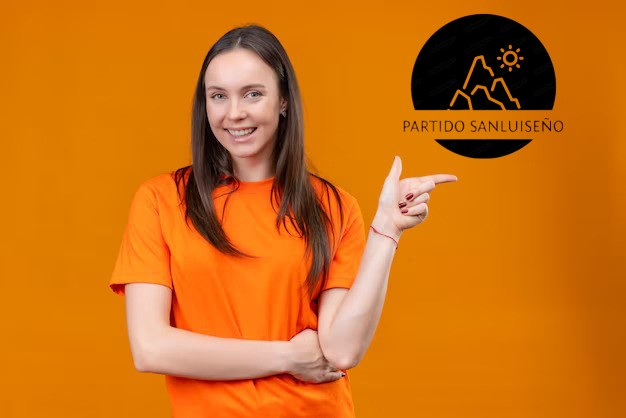
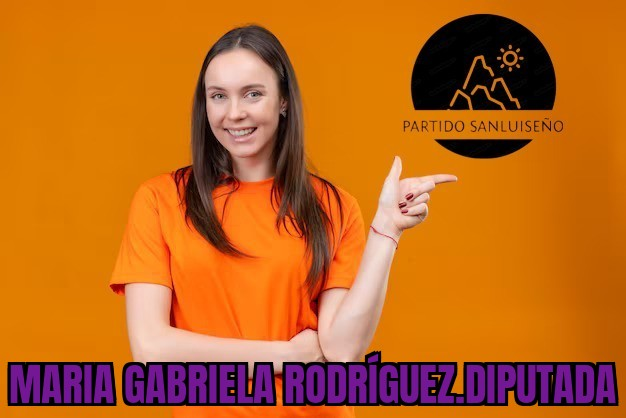
ultimos detalles

Changed region(s): [[0.0, 0.8397, 1.0, 0.9952], [0.7284, 0.1244, 0.8498, 0.2488]]

diff --git a/formulariocontacto.html b/formulariocontacto.html
@@ -8,8 +8,16 @@
     <style>
         .container2  {
         font-size: 14px;
-        margin-left: 350px; 
+        margin-top: 10px;
+        
     }
+    .flex-container {
+  display: flex;
+  background-color: black;
+  margin: 10px;
+  padding: 10px;
+  
+}
     </style>
     
     <script>
@@ -20,37 +28,37 @@
             var dni = document.getElementById('dni').value.trim();
             var phone = document.getElementById('phone').value.trim();
 
-            // Validaciones básicas
+            // Validaciones básicas.ok
             if (!name ||!lastName ||!dni ||!phone) {
                 showError("Todos los campos son obligatorios.");
                 return false;
             }
 
-            // Longitud máxima para DNI y Teléfono
+            // Longitud máxima para DNI y Teléfono.Revisar
             if (dni.length > 8 || phone.length > 15) {
                 showError("DNI y Teléfono exceden la longitud máxima permitida.");
                 return false;
             }
 
-            // Expresión regular para el DNI (ajusta según el formato esperado)
+            // Expresión regular para el DNI.ok
             var dniPattern = /^[0-9]{8}$/;
             if (!dni.match(dniPattern)) {
                 showError("DNI inválido.");
                 return false;
             }
 
-            // Expresión regular para el Teléfono (ajusta según el formato esperado)
-            var phonePattern = /^\d{10}$/; // Ejemplo para números de teléfono de 10 dígitos
+            // Expresión regular para el Teléfono.ok
+            var phonePattern = /^\d{10}$/; // Solo acepta numeros de hasta 10 digitos
             if (!phone.match(phonePattern)) {
                 showError("Número de teléfono inválido.");
                 return false;
             }
 
-            // Mostrar mensaje de éxito y datos ingresados
+            // Mostrar mensaje de éxito y datos ingresados.ok
             var successMessage = document.getElementById('success-message');
             successMessage.style.display = 'block';
 
-            // Crear un div para mostrar los datos ingresados
+            // Crear un div para mostrar los datos ingresados.ok
 
             var userDataDiv = document.createElement('div');
             userDataDiv.innerHTML = `
@@ -64,11 +72,11 @@
 
             setTimeout(() => {
                 successMessage.style.display = 'none';
-                userDataDiv.remove(); // Eliminar el div de datos ingresados después de 5 segundos
+                userDataDiv.remove(); // Elimina el div de datos ingresados despues de x tiempo.ok
             }, 5000);
             
             
-            // Resetear el formulario
+            // Resetear el formulario.ok
             document.getElementById('contactForm').reset();
             return true;
         }
@@ -99,6 +107,7 @@
     </div>
         
         </header>
+        <div class="flex-container">
         <div class="container2">
     <form id="contactForm" onsubmit="event.preventDefault(); validateAndSubmit(event);">
         <label for="name">Nombre:</label><br>
@@ -114,6 +123,12 @@
     </form>
     <div id="success-message" style="display: none;">Gracias por querer sumarte al cambio!.Pronto nos comunicaremos con vos</div>
 </div>
+
+<div class="contenedor">
+    <img src="afiliados.jpg"  width="350px" height="350px" alt="Afiliados" style="float: center; margin-top: 15px;">
+</div>
+        </div>
+
     <footer>
         <ul>
             <li>Telefono: 2664223344</li>

diff --git a/candidatos.html b/candidatos.html
@@ -5,6 +5,17 @@
     <meta name="viewport" content="width=device-width, initial-scale=1.0">
     <title>Nuestros candidatos</title>
     <link rel="stylesheet" href = "partido.css">
+    <style>
+          .flex-container {
+  display: flex;
+  background-color: black;
+  margin: 10px;
+  padding: 10px;
+  
+}
+
+
+    </style>
       
     <header>
     
@@ -20,18 +31,15 @@
             
         </ul>
     </div>
-        
-        </header>
+     </header>
 
-       
-</head>
+    </head>
 <body>
-    
+    <div class="flex-container"> 
     <div class="listaCandidatos">
         <ul>
-            <h2>Candidato 1</h2>
-            <li>Nombre: Juan Carlos</li>
-            <li>Apellido: Pérez</li>
+            <h2>Juan Carlos Perez</h2>
+            
             <li>Estudios: Licenciatura en Ciencias Políticas por la Universidad Nacional Mayor de San Marcos (UNMSM).</li>
             <li>Experiencia Laboral: Ex miembro del Congreso Nacional como Diputado durante dos legislaturas. Anteriormente,<br>
                  trabajó como asesor político para el Ministerio de Relaciones Exteriores.</li>
@@ -40,9 +48,8 @@
         </div>  
         <div class="listaCandidatos">    
         <ul>
-            <h2>Candidato 2</h2>
-            <li>Nombre: María Gabriela</li>
-            <li>Apellido: Rodriguez</li>
+            <h2>Maria Gabriela Rodriguez</h2>
+            
             <li>Estudios: Maestría en Administración Pública por la Pontificia Universidad Católica del Perú (PUCP). Licenciada en Derecho por la Universidad de Lima.</li>
             <li>Experiencia Laboral: Dirección de Asuntos Legislativos en el Ministerio de Economía y Finanzas. Antes de eso, ejerció como abogada especializada en derecho administrativo.</li>
             
@@ -51,9 +58,8 @@
         </div>
         <div class="listaCandidatos">
             <ul>
-                <h2>Candidato 3</h2>
-                <li>Nombre: Pedro Alejandro</li>
-                <li>Apellido: Gonzalez</li>
+                <h2>Pedro Alejandro Gonzalez</h2>
+                
                 <li>Estudios: Ingeniero Civil por la Universidad Nacional de Ingeniería (UNI). Especialización en Gestión Ambiental por la Universidad Ricardo Palma.</li>
                 <li>Experiencia Laboral: Director de Proyectos Ambientales en la empresa privada. Ha sido consultor ambiental para proyectos de inversión nacional e internacional.<br>
                      Participante activo en organizaciones de conservación de la naturaleza.</li>
@@ -66,7 +72,7 @@
         <button id="nextBtn" class="carousel-button">&gt;</button>
     </div>
 
-
+    </div>
     <script>
         
         const images = ["candidato5.jpg", "candidato3.jpg", "candidato2.jpg"];
@@ -93,7 +99,7 @@
         prevBtn.addEventListener("click", prevImage);
         nextBtn.addEventListener("click", nextImage);
     
-        // Inicializa la imagen actual
+        
         updateImage();
     
     </script>

diff --git a/partido.css b/partido.css
@@ -1,8 +1,5 @@
-/**, * ::after, *::before {
-    box-sizing: border-box;
-}-->*/
 
-/*mouse hover link*/
+/*mouse hover link. accion del mouse*/
 a:hover{
     color: white;
 }
@@ -95,7 +92,7 @@ main{
 
 
 .contenedor{
-    float:left;
+    
     width: 41%;
     height: 400px;
     background-color: orangered;
@@ -105,14 +102,14 @@ main{
 }
 
 .listaCandidatos{
-    float:left;
-    height: 150px;
-    text-align: center;
+    
+    height: 400px;
+    text-align: left;
     background-color: rgb(153, 0, 255);
     margin-top: 10px;
-    font-size: 10px; 
+    font-size: 15px; 
     width: 50%;
-    margin-left: 10px;
+    margin-left: 2px;
 }
 
 
@@ -139,9 +136,9 @@ footer{
 .carousel-text-container {
     display: flex;
     justify-content: space-between;
-    align-items: center; /* Asegura que el carrusel y el texto estén alineados verticalmente */
-    width: 100%; /* Ajusta esto según sea necesario */
-    padding: 20px; /* Espacio alrededor del contenedor */
+    align-items: center; 
+    width: 100%; 
+    padding: 20px; /* espacio alrededor del contenedor */
 }
 
 .carousel-image {
@@ -160,10 +157,7 @@ footer{
     padding: 20px;
     border: 1px solid #ccc;
 }
-/*@media screen and (max-width: 480px) {
-    body {
-        font-size: 12px;
-    }*/
+
 
    .container {
     float:left;
@@ -178,7 +172,7 @@ footer{
    
     }
     .container2 {
-        float:left;
+        
         width: 50%; /*ancho*/
         height: 400px;
         text-align: center;

diff --git a/historia.html b/historia.html
@@ -7,9 +7,9 @@
     <link rel="stylesheet" href = "partido.css">
     <style>
     .container2 p {
-        font-size: 14px; /* Ajusta el valor según tus necesidades */
+        font-size: 14px; 
     }
-    
+  
 </style>
 </head>
 <body>
@@ -28,8 +28,8 @@
         </div>
             
             </header>
-             
-        <div class="container2">
+               
+       <div class="container2">
                                             
                 <p>Partido Sanluiseño, es un partido político provincial fundado por Juan Carlos Legria <br>
                     quien fuera tres veces gobernador de la Provincia de San Luis.</p>
@@ -45,7 +45,7 @@
                 <img src="cartel.png"  width="350px" height="350px" alt="Logo cartel" style="float: center; margin-top: 15px;">
             </div>
         
-     
+            
         <footer>
             <ul>
                 <li>Telefono: 2664223344</li>
